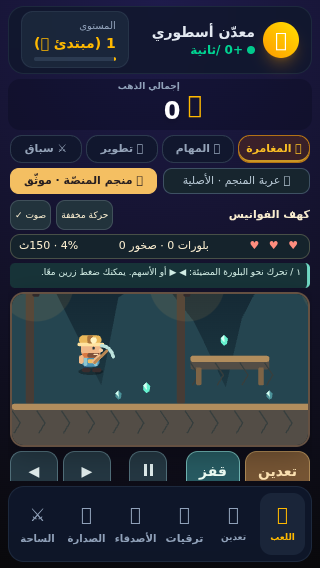
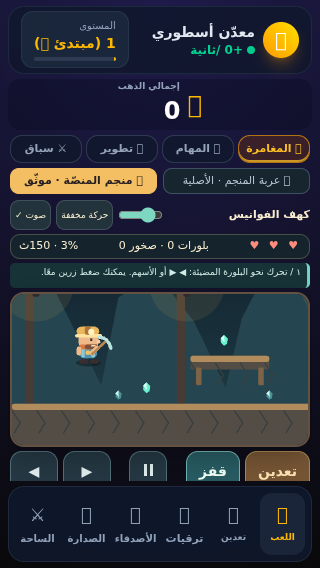
fix: isolate adventure scenes and verify full mobile touch gameplay

Changed region(s): [[0.2188, 0.5687, 0.375, 0.6585], [0.375, 0.3592, 0.5, 0.3891], [0.1875, 0.419, 0.2188, 0.4489]]

diff --git a/public/platform-game.js b/public/platform-game.js
@@ -11,7 +11,8 @@
   let sim = R.create(), inputs = [], ticket = null, owner = null;
   let running = false, paused = false, starting = false, restoring = true, submitting = false, pending = null;
   let raf = 0, last = 0, accumulator = 0;
-  let audio = null, muted = false, particles = [];
+  let audio = null, muted = false, volume = .75, particles = [];
+  let feedbackUntil = 0, observedCheckpoint = sim.checkpoint, observedMined = sim.mined;
   const keys = new Set(), pointers = new Map();
   // Preserve a quick jump/mine tap until one simulation step consumes it. Sources
   // are separate so cancelling a finger cannot erase a keyboard or another finger.
@@ -28,7 +29,11 @@
   let reduced = Boolean(motionQuery?.matches), motionOverride = false;
   try { const preference = localStorage.getItem('platform-reduced'); if (preference !== null) { reduced = preference === 'true'; motionOverride = true; } } catch (_) {}
   let learnedJump = false;
-  try { muted = localStorage.getItem('platform-muted') === 'true'; } catch (_) {}
+  try {
+    muted = localStorage.getItem('platform-muted') === 'true';
+    const savedVolume = localStorage.getItem('platform-volume');
+    if (savedVolume !== null && Number.isFinite(Number(savedVolume))) volume = Math.max(0, Math.min(1, Number(savedVolume)));
+  } catch (_) {}
   const keyMap = { ArrowLeft: 1, KeyA: 1, ArrowRight: 2, KeyD: 2, Space: 4, ArrowUp: 4, KeyW: 4, KeyE: 8, KeyX: 8 };
   const storageKey = () => `platform-run:v1:${owner}`;
   const say = text => { el('platform-status').textContent = text; };
@@ -39,18 +44,18 @@
     document.querySelectorAll('[data-platform-input]').forEach(b => { b.dataset.down = 'false'; });
   }
   function audioUnlock() {
-    if (muted) return;
+    if (muted || volume === 0) return;
     try { const AC = window.AudioContext || window.webkitAudioContext; if (!audio && AC) audio = new AC(); audio?.resume()?.catch(() => {}); } catch (_) {}
   }
   function beep(type) {
-    if (muted || !audio || audio.state !== 'running') return;
+    if (muted || volume === 0 || !audio || audio.state !== 'running') return;
     try {
       const frequencies = { jump: 420, collect: 840, mine: 150, hurt: 90, win: 1040, land: 70, warning: 240, defeat: 600 };
       const o = audio.createOscillator(), g = audio.createGain();
       o.type = type === 'mine' || type === 'hurt' ? 'triangle' : 'sine';
       o.frequency.setValueAtTime(frequencies[type] || 300, audio.currentTime);
       o.frequency.exponentialRampToValueAtTime((frequencies[type] || 300) * 1.4, audio.currentTime + .1);
-      g.gain.setValueAtTime(.045, audio.currentTime); g.gain.exponentialRampToValueAtTime(.001, audio.currentTime + .13);
+      g.gain.setValueAtTime(.045 * volume, audio.currentTime); g.gain.exponentialRampToValueAtTime(.001, audio.currentTime + .13);
       o.connect(g); g.connect(audio.destination); o.start(); o.stop(audio.currentTime + .14);
     } catch (_) {}
   }
@@ -103,14 +108,29 @@
     if (previous && previous.mask === mask) previous.frames++;
     else inputs.push({ mask, frames: 1 });
   }
+  function feedback(text) {
+    setText('platform-feedback', text);
+    el('platform-feedback').hidden = false;
+    feedbackUntil = sim.tick + 150; // Simulation time: pause freezes the message too.
+  }
+  function resetFeedback() {
+    feedbackUntil = 0; observedCheckpoint = sim.checkpoint; observedMined = sim.mined;
+    el('platform-feedback').hidden = true;
+  }
   function consumeEvents() {
+    if (sim.mined > observedMined) feedback('تكسّر العِرق! جمعت بلورتين من المعدن.');
+    if (sim.checkpoint !== observedCheckpoint) feedback('راية مفعّلة — ستعود إلى هنا إن أصابك خطر.');
+    observedMined = sim.mined; observedCheckpoint = sim.checkpoint;
     for (const event of sim.events) {
       if (event.type === 'jump') learnedJump = true;
+      if (event.type === 'hurt') feedback(sim.player.hearts > 0 ? (sim.checkpoint === 64 ? 'احذر الخطر! عدت إلى نقطة البداية.' : 'احذر الخطر! عدت إلى آخر راية، ومواردك باقية.') : 'نفدت القلوب — يمكنك المحاولة من جديد.');
+      if (event.type === 'defeat') feedback('هزمت حارسًا — الطريق أكثر أمانًا.');
       beep(event.type);
       if (!reduced && ['mine', 'collect', 'hurt', 'win'].includes(event.type)) {
         for (let i = 0; i < 8; i++) particles.push({ x: event.x, y: event.y, vx: (i - 4) * .65, vy: -1 - (i % 3), life: 30, color: event.type === 'hurt' ? '#ff9b7e' : '#8ce6cc' });
       }
     }
+    if (feedbackUntil && sim.tick >= feedbackUntil) { el('platform-feedback').hidden = true; feedbackUntil = 0; }
     particles = particles.slice(-96);
     for (const p of particles) { p.x += p.vx; p.y += p.vy; p.vy += .12; p.life--; }
     particles = particles.filter(p => p.life > 0);
@@ -188,7 +208,7 @@
         say('جولة محفوظة الهوية. عدّن صخرة واجمع 3 بلورات، ثم اعبر بوابة الخروج.');
       } else { R = currentRules; ticket = null; say('تدريب بلا اتصال — لا مكافأة. يمكنك اللعب ثم إعادة المحاولة متصلًا.'); }
       sim = R.create(); inputs = []; particles = []; learnedJump = false; running = true; paused = false; save();
-      hud();
+      resetFeedback(); hud();
       if (visible()) resume(); else pause();
     } catch (e) { say(`تعذّر بدء الجولة: ${e.message}. جرّب مجددًا عند الاتصال.`); }
     finally { starting = false; el('platform-start').disabled = Boolean(pending); }
@@ -204,7 +224,7 @@
     const replay = stored.inputs?.length ? R.replay(stored.inputs) : { ok: true, state: R.create() };
     if (!replay.ok) { say('ملف جولة غير صالح؛ يمكنك البدء مجددًا.'); return; }
     ticket = stored.ticket; inputs = stored.inputs || []; sim = replay.state;
-    hud(); draw();
+    resetFeedback(); hud(); draw();
     if (sim.status !== 'playing') {
       pending = { id: ticket.id, inputs }; el('platform-start').disabled = true;
       overlay(sim.status === 'won' ? 'استرجاع نتيجة جولتك' : 'جولة سابقة انتهت', 'جارٍ استرجاع تأكيد الخادم. إعادة الطلب لا تضاعف الجائزة.');
@@ -266,12 +286,34 @@
     say('أُلغي الحفظ المحلي المعلق فقط. يمكنك بدء جولة جديدة؛ أرصدة الخادم لم تُحذف.');
   });
   el('platform-mode').addEventListener('click', showPlatform); el('legacy-mode').addEventListener('click', showLegacy);
-  el('platform-mute').setAttribute('aria-pressed', String(muted)); el('platform-mute').textContent = muted ? 'صوت ×' : 'صوت ✓';
+  function audioUI() {
+    const silent = muted || volume === 0;
+    el('platform-mute').setAttribute('aria-pressed', String(silent));
+    el('platform-mute').textContent = silent ? 'صوت ×' : 'صوت ✓';
+    el('platform-volume').value = String(Math.round(volume * 100));
+    el('platform-volume').setAttribute('aria-valuetext', `${Math.round(volume * 100)} بالمئة`);
+  }
+  function applyAudioPreference() {
+    audioUI();
+    try {
+      localStorage.setItem('platform-muted', String(muted));
+      localStorage.setItem('platform-volume', String(volume));
+    } catch (_) {}
+    if (muted || volume === 0) audio?.suspend?.()?.catch(() => {}); else audioUnlock();
+  }
   el('platform-mute').addEventListener('click', () => {
-    muted = !muted; el('platform-mute').setAttribute('aria-pressed', String(muted)); el('platform-mute').textContent = muted ? 'صوت ×' : 'صوت ✓';
-    try { localStorage.setItem('platform-muted', String(muted)); } catch (_) {}
-    if (muted) audio?.suspend?.()?.catch(() => {}); else audioUnlock();
+    muted = !(muted || volume === 0);
+    if (!muted && volume === 0) volume = .5;
+    applyAudioPreference();
   });
+  el('platform-volume').addEventListener('input', () => {
+    const value = Number(el('platform-volume').value);
+    if (!Number.isFinite(value)) return;
+    volume = Math.max(0, Math.min(1, value / 100));
+    if (volume > 0) muted = false;
+    applyAudioPreference();
+  });
+  audioUI();
   function motionUI() {
     el('platform-motion').setAttribute('aria-pressed', String(reduced));
     el('platform-motion').textContent = reduced ? 'حركة مخففة' : 'حركة كاملة';
@@ -284,7 +326,7 @@
   motionQuery?.addEventListener?.('change', e => { if (!motionOverride) { reduced = e.matches; particles = []; motionUI(); draw(); } });
   motionUI();
   // Read-only diagnostics support reproducible browser tests, not reward authority.
-  window.PlatformGame = { pause, showLegacy, showPlatform, inspect: () => ({ tick: sim.tick, status: sim.status, pose: sim.player.pose, facing: sim.player.facing, x: sim.player.x, y: sim.player.y, gems: sim.collected, mined: sim.mined, hearts: sim.player.hearts, running, paused, scheduled: Boolean(raf), ticket: ticket?.id, pending: Boolean(pending), reduced, version: R.VERSION, defeated: sim.defeated || 0, boss: Boolean(sim.bossDefeated) }) };
+  window.PlatformGame = { pause, showLegacy, showPlatform, inspect: () => ({ tick: sim.tick, status: sim.status, pose: sim.player.pose, facing: sim.player.facing, x: sim.player.x, y: sim.player.y, gems: sim.collected, mined: sim.mined, hearts: sim.player.hearts, running, paused, scheduled: Boolean(raf), ticket: ticket?.id, pending: Boolean(pending), reduced, muted: muted || volume === 0, volume, checkpoint: sim.checkpoint, version: R.VERSION, defeated: sim.defeated || 0, boss: Boolean(sim.bossDefeated) }) };
   el('platform-start').disabled = true;
   draw(); restore().catch(() => say('تعذّر استرجاع الجولة؛ يمكنك بدء رحلة جديدة.')).finally(() => { restoring = false; el('platform-start').disabled = Boolean(pending); });
 })();

diff --git a/test/platform-ui.test.js b/test/platform-ui.test.js
@@ -143,7 +143,7 @@ function bootPage({ failServer = false, storedRun = null } = {}) {
 
   const fire = (el, type, event = {}) => { for (const fn of el?._listeners?.[type] || []) fn({ type, preventDefault: noop, ...event }); };
   const fireWindow = (type, event = {}) => { for (const [t, fn] of windowListeners) if (t === type) fn({ type, preventDefault: noop, target: { tagName: 'BODY' }, ...event }); };
-  const key = (type, code) => fireWindow(type, { code, key: code });
+  const key = (type, code) => fireWindow(type, { code, key: code === 'Space' ? ' ' : code.startsWith('Key') ? code.slice(-1).toLowerCase() : code });
   const settle = async () => {
     for (let i = 0; i < 12; i++) {
       for (const fn of timers.splice(0)) { try { fn(); } catch (e) { log.errors.push(`timer: ${e.message}`); } }
@@ -160,7 +160,7 @@ test('platform UI: the page wires the scene — assets, mode switch and every el
     assert.ok(html.includes(asset), `${asset} must be referenced from index.html`);
   }
   for (const id of ['platform-scene', 'legacy-adventure', 'platform-mode', 'legacy-mode', 'platform-canvas', 'platform-overlay', 'platform-title', 'platform-message',
-    'platform-guide', 'platform-motion', 'platform-start', 'platform-resume', 'platform-pause', 'platform-retry', 'platform-discard', 'platform-mute', 'platform-hearts', 'platform-resources', 'platform-progress', 'platform-status']) {
+    'platform-feedback', 'platform-volume', 'platform-guide', 'platform-motion', 'platform-start', 'platform-resume', 'platform-pause', 'platform-retry', 'platform-discard', 'platform-mute', 'platform-hearts', 'platform-resources', 'platform-progress', 'platform-status']) {
     assert.ok(ids.has(id), `#${id} must exist`);
   }
   for (const mask of [1, 2, 4, 8]) assert.match(html, new RegExp(`data-platform-input="${mask}"`));
@@ -369,4 +369,79 @@ test('platform UI: a short mining tap swings once rather than continuing to mine
   tap(52); page.flushFrames(15); tap(53); page.flushFrames(15);
   assert.equal(page.PlatformGame().inspect().mined, 1, 'three deliberate taps break the rock');
   assert.equal(mine.dataset.down, 'false');
+});
+
+test('platform UI: volume is bounded, persists, mutes at zero, and can be restored by the sound button', async () => {
+  const page = bootPage(); await page.settle();
+  const slider = page.byId('platform-volume');
+  slider.value = '25'; page.fire(slider, 'input');
+  assert.equal(page.PlatformGame().inspect().volume, .25);
+  assert.equal(page.localStore.get('platform-volume'), '0.25');
+  slider.value = '0'; page.fire(slider, 'input'); assert.equal(page.PlatformGame().inspect().muted, true);
+  page.fire(page.byId('platform-mute'), 'click');
+  assert.equal(page.PlatformGame().inspect().muted, false); assert.equal(page.PlatformGame().inspect().volume, .5);
+  slider.value = '500'; page.fire(slider, 'input'); assert.equal(page.PlatformGame().inspect().volume, 1);
+  slider.value = '-20'; page.fire(slider, 'input'); assert.equal(page.PlatformGame().inspect().volume, 0);
+  slider.value = 'not-a-number'; page.fire(slider, 'input'); assert.equal(page.PlatformGame().inspect().volume, 0);
+});
+test('platform UI: slider keyboard commands do not move the miner', async () => {
+  const page = bootPage(); await page.settle();
+  page.fire(page.byId('platform-start'), 'click'); await page.settle();
+  let prevented = false;
+  page.fireWindow('keydown', {code: 'ArrowRight', key:'ArrowRight', target: {tagName: 'INPUT'}, preventDefault: () => { prevented = true; }});
+  assert.equal(prevented, false, 'all scene listeners must leave native slider commands alone');
+  page.flushFrames(15); assert.equal(page.PlatformGame().inspect().x, 64);
+});
+test('platform UI: activating a checkpoint gives temporary feedback, frozen during pause', async () => {
+  const state = R.create(), inputs = [];
+  outer: for (const action of solution().inputs) for (let i = 0; i < action.frames; i++) {
+    if (inputs.at(-1)?.mask === action.mask) inputs.at(-1).frames++;
+    else inputs.push({mask: action.mask, frames: 1});
+    R.step(state, action.mask);
+    if (state.player.x >= 903) break outer;
+  }
+  assert.equal(state.checkpoint, 64);
+  const page = bootPage({storedRun: {version: R.VERSION, ticket: {id:'ticket-ui-1',version:R.VERSION},inputs}});
+  await page.settle(); page.fire(page.byId('platform-resume'), 'click');
+  page.key('keydown','ArrowRight'); page.flushFrames(8); page.key('keyup','ArrowRight');
+  assert.equal(page.PlatformGame().inspect().checkpoint, 920);
+  assert.equal(page.byId('platform-feedback').hidden, false);
+  assert.match(page.byId('platform-feedback').textContent, /راية مفعّلة/);
+  page.fireWindow('blur'); page.flushFrames(200); assert.equal(page.byId('platform-feedback').hidden, false);
+  page.fire(page.byId('platform-resume'),'click'); page.flushFrames(160);
+  assert.equal(page.byId('platform-feedback').hidden, true);
+});
+test('platform UI: a legal fall reports the respawn without removing the resources already collected', async () => {
+  const page = bootPage(); await page.settle();
+  page.fire(page.byId('platform-start'), 'click'); await page.settle();
+  page.key('keydown','ArrowRight'); page.key('keydown','KeyE');
+  for (let i=0; i<45 && page.PlatformGame().inspect().hearts===3; i++) page.flushFrames(10);
+  page.key('keyup','ArrowRight'); page.key('keyup','KeyE');
+  const state = page.PlatformGame().inspect();
+  assert.equal(state.hearts, 2); assert.ok(state.gems >= 3); assert.equal(state.mined, 1);
+  assert.match(page.byId('platform-feedback').textContent, /عدت إلى نقطة البداية/);
+  assert.equal(page.log.platformFinishBodies.length, 0, 'feedback cannot grant or finish a reward');
+});
+
+test('scene isolation: real Space jumps only in the platform scene, and still starts the visible original cart', async () => {
+  const page = bootPage(); await page.settle();
+  page.fire(page.byId('platform-start'), 'click'); await page.settle();
+  page.key('keydown','Space'); page.flushFrames(3); page.key('keyup','Space');
+  assert.ok(page.PlatformGame().inspect().y < 262);
+  assert.equal(vm.runInContext('adv.running',page.ctx), false, 'no hidden second simulation');
+  page.fire(page.byId('legacy-mode'),'click');
+  assert.equal(page.PlatformGame().inspect().scheduled, false);
+  page.key('keydown','Space'); page.key('keyup','Space');
+  assert.equal(vm.runInContext('adv.running',page.ctx), true, 'original keyboard control remains supported');
+});
+test('scene isolation: native form input cannot start the cart, and a seeded race reveals it and pauses platforms', async () => {
+  const page = bootPage(); await page.settle();
+  page.fire(page.byId('legacy-mode'),'click');
+  page.fireWindow('keydown',{code:'Space',key:' ',target:{tagName:'INPUT'}});
+  assert.equal(vm.runInContext('adv.running',page.ctx), false);
+  page.fire(page.byId('platform-mode'),'click'); page.fire(page.byId('platform-start'),'click'); await page.settle();
+  vm.runInContext("startAdventure('race', 1234, 45)",page.ctx);
+  assert.equal(page.PlatformGame().inspect().paused, true); assert.equal(page.PlatformGame().inspect().scheduled, false);
+  assert.equal(page.byId('legacy-adventure').hidden, false); assert.equal(page.byId('platform-scene').hidden, true);
+  assert.equal(vm.runInContext('adv.mode',page.ctx), 'race'); assert.equal(vm.runInContext('adv.timeLeft',page.ctx), 45);
 });

diff --git a/public/index.html b/public/index.html
@@ -311,7 +311,7 @@
     .buy-btn { transition: transform .08s ease, opacity .2s ease, background .2s ease; }
   </style>
   <!-- أنماط مشهد منجم المنصّة (اللعبة الجانبية) — مكتفية ذاتياً بلا CDN أو خطوط خارجية -->
-  <link rel="stylesheet" href="/platform.css?v=2">
+  <link rel="stylesheet" href="/platform.css?v=3">
 </head>
 <body class="flex flex-col p-2 sm:p-3 select-none mx-auto gap-2">
 
@@ -415,7 +415,7 @@
           <div class="mine-kicker">المستوى ١ / كهف الفوانيس · استكشف، عدّن، ثم اعبر</div>
           <h2>كهف الفوانيس</h2>
         </div>
-        <div class="mine-settings"><button id="platform-motion" type="button" aria-pressed="false" aria-label="تقليل الحركة">حركة كاملة</button><button id="platform-mute" type="button" aria-pressed="false">صوت ✓</button></div>
+        <div class="mine-settings"><input id="platform-volume" type="range" dir="ltr" min="0" max="100" step="5" value="75" aria-label="مستوى صوت اللعبة" title="مستوى صوت اللعبة"><button id="platform-motion" type="button" aria-pressed="false" aria-label="تقليل الحركة">حركة كاملة</button><button id="platform-mute" type="button" aria-pressed="false">صوت ✓</button></div>
       </div>
       <div class="mine-hud" aria-label="حالة الجولة">
         <span id="platform-hearts">♥ ♥ ♥</span>
@@ -424,6 +424,7 @@
       </div>
       <div id="platform-guide" class="mine-guide" role="status" aria-live="polite">١ / تحرك باتجاه البلورة المضيئة باستخدام ◀ ▶ أو الأسهم.</div>
       <div class="mine-stage">
+        <div id="platform-feedback" class="mine-feedback" role="status" aria-live="polite" hidden></div>
         <canvas id="platform-canvas" tabindex="0" aria-label="مشهد منجم المنصّة — حرّك بالأسهم واقفز بالمسافة وعدّن بحرف E"></canvas>
         <div id="platform-overlay" class="mine-overlay">
           <h3 id="platform-title">رحلة إلى كهف الفوانيس</h3>
@@ -2172,6 +2173,10 @@
     }
 
     function startAdventure(mode = 'solo', seed = null, duration = null) {
+      // A server-started race must reveal the cart, and suspend the platform RAF.
+      window.PlatformGame?.showLegacy();
+      if (mode === 'race') switchPlayPanel('adventure');
+      for (const key of Object.keys(advKeys)) delete advKeys[key];
       resizeAdventureCanvas();
       adv.mode = mode;
       adv.rng = mode === 'race' && seed !== null ? mulberry32(seed) : null;
@@ -2214,6 +2219,8 @@
     function setAdventurePaused(paused) {
       if (!adv.running) return;
       adv.paused = paused;
+      for (const key of Object.keys(advKeys)) delete advKeys[key];
+      if (paused) cancelAnimationFrame(adv.raf);
       const overlay = document.getElementById('game-overlay');
       document.getElementById('game-overlay-title').innerText = paused ? '⏸ توقف مؤقت' : 'مغامرة المنجم';
       document.getElementById('game-overlay-text').innerHTML = paused ? 'خذ نفساً… المغامرة بانتظارك.' : '';
@@ -2597,8 +2604,13 @@
     advCanvas.addEventListener('pointerdown', (e) => { advCanvas.setPointerCapture?.(e.pointerId); moveAdventureTo(e.clientX); });
     advCanvas.addEventListener('pointermove', (e) => { if (e.buttons || e.pointerType === 'touch') moveAdventureTo(e.clientX); });
     window.addEventListener('keydown', (e) => {
-      if (!document.getElementById('tab-play').classList.contains('active')) return;
-      if (['ArrowLeft', 'ArrowRight', ' '].includes(e.key)) e.preventDefault();
+      if (!document.getElementById('tab-play').classList.contains('active')
+          || !document.getElementById('play-panel-adventure').classList.contains('active')
+          || document.getElementById('legacy-adventure').hidden
+          || /INPUT|TEXTAREA|SELECT/.test(e.target?.tagName || '') || e.target?.isContentEditable) return;
+      if (!['ArrowLeft', 'ArrowRight', ' '].includes(e.key)) return;
+      e.preventDefault();
+      if (e.key === ' ' && e.repeat) return;
       advKeys[e.key] = true;
       if (e.key === ' ' && adv.running) useAdventureSkill();
       else if (e.key === ' ' && !adv.running) startAdventure();
@@ -2908,6 +2920,6 @@
   <!-- جسر منجم المنصّة: يربط مشهد اللعبة بواجهات المزامنة والمصادقة أعلاه -->
   <script src="/platform-bridge.js?v=1"></script>
   <!-- متحكم مشهد منجم المنصّة: خطوة ثابتة 60Hz وتسجيل حركات يتحقق منها الخادم -->
-  <script src="/platform-game.js?v=2"></script>
+  <script src="/platform-game.js?v=3"></script>
 </body>
 </html>

diff --git a/public/platform.css b/public/platform.css
@@ -28,3 +28,11 @@
 @media(max-height:480px) and (min-width:600px){.mine-heading h2{font-size:10px}.mine-heading button{min-height:24px}.mine-guide{min-height:18px}}
 
 .mine-controls .mine-actions button[data-platform-input="4"]{background:#275b62;border-color:#71b6b4;color:#effff6}
+
+/* Small, non-blocking game feedback; no timer/animation loop of its own. */
+.mine-feedback{position:absolute;z-index:1;top:8px;inset-inline:8px;pointer-events:none;text-align:center;padding:6px 9px;border:1px solid #77bda5;border-radius:8px;background:#12352ff2;color:#e1ffdf;font-size:11px;line-height:1.5}
+.mine-overlay{z-index:2}
+.mine-heading>div:first-child{min-width:0}
+#platform-volume{width:54px;min-width:54px;height:36px;align-self:center;margin:0;accent-color:#7ed8c1;cursor:pointer}
+#platform-volume:focus-visible{outline:2px solid #a3e6d4;outline-offset:2px}
+@media(max-height:650px){#platform-volume{width:45px;min-width:45px;height:30px}.mine-feedback{font-size:10px;top:5px;padding:4px}}

diff --git a/docs/2D-SIDE-SCROLLER-OVERHAUL.md b/docs/2D-SIDE-SCROLLER-OVERHAUL.md
@@ -207,3 +207,50 @@ npm run test:browser
 المعاينة: `npm ci` ثم `npm start` على Node 22، وافتح `http://localhost:3000` على جهاز التشغيل. يعمل المستوى افتراضيًا دون البحث في قوائم فرعية. المعاينة الحية في Arena خادم تطوير على المنفذ 3000 مربوط بـ`0.0.0.0`؛ الضيف للتجربة المحلية فقط. للدخول الحقيقي داخل Telegram يلزم ضبط الإعدادات الموثقة في `.env.example` وHTTPS خارج هذه المعاينة، ولم يُنفّذ نشر هنا.
 
 فرع المراجعة على GitHub: [arena/c6a30444-telegram-mining-game](https://github.com/Mohammedradan/telegram-mining-game/tree/arena/c6a30444-telegram-mining-game). لقطات الهاتف والشاشة القصيرة والأفقية والزعيم والنتيجة مرفقة في `docs/media/`. لا يُعتبر اختبار Chromium أو إبطاء CPU بديلًا عن اعتماد Telegram على أجهزة فعلية؛ القيود السابقة ما زالت قائمة.
+
+
+### إعادة الفحص وإكمال قبول اللمس وعزل المشاهد — 2026-10-17
+
+**حالة Git التي رُصدت فعلًا:** كانت الشجرة المستعادة عند HEAD محلي `d5198d1` ومعها الملفات المعدلة، بينما أكّد `git ls-remote` وجود التنفيذ في `2fe1b1ea006bcdda4c81b706ffbc47705fc52165` على فرع Arena. قورنت كل الملفات المتعقبة بالـblob hashes البعيدة وكانت مطابقة تمامًا؛ جرى تحديث HEAD/index إلى ذلك الـcommit مع إبقاء ملفات العمل دون حذف أو استبدال. فرع `feature/2d-side-scrolling-overhaul` البعيد كان ما يزال عند `d5198d1`، ولذلك لا يكفي فتحه لرؤية التنفيذ. يجري التسليم من فرع الجلسة الثابت إلى مسودة مراجعة تستهدف فرع feature المطلوب، **دون دمج**.
+
+أول تشغيل للاختبارات في البيئة المستعادة فشل فعلًا (**80 نجاحًا / 70 فشلًا**) بسبب غياب الاعتمادات، ومنها Express وSQLite. بعد `npm_config_nodedir=/usr/local npm ci` نجح خط الأساس **164/164** ونجح البناء قبل التعديل. لم يُستبدل نظام المصادقة أو الاقتصاد أو قاعدة البيانات.
+
+#### إصلاح لعب فعلي اكتشفه المتصفح
+
+مستمع مفاتيح العربة القديمة كان يتعامل مع الأسهم وSpace متى كان تبويب اللعب نشطًا، حتى حين تكون العربة **مخفية خلف المنصات**. كان يمنع الاستخدام الأصلي لأسهم شريط الصوت، ويمكن أن يبدأ العربة ويشغّل محاكاة ثانية عند القفز بالمسافة. لم تكشفه اختبارات VM السابقة لأن قيمة `KeyboardEvent.key` فيها كانت `Space` بدل المسافة الحقيقية `' '`.
+
+- قُصر مستمع العربة على مشهدها الظاهر ولوحتها النشطة، مع تجاهل حقول الإدخال وcontenteditable.
+- صُححت دلالة المفاتيح في محاكي الاختبار، وأضيف اختبار يستخدم Space الحقيقي ويثبت أن العربة تبقى غير مشغلة أثناء القفز في المنصات، وأنها لا تزال تبدأ بالمسافة حين يظهر مشهدها.
+- تمسح العربة مفاتيحها وتلغي RAF عند الإيقاف. بدء سباق خادمي يكشف مشهد العربة ولوحة المغامرة ويوقف المنصات، مع الحفاظ على seed والمدة الخادميين.
+- أضيف تأكيد في اختبار Chromium أن جولة المنصات لا تبدأ العربة المخفية.
+
+#### صقل تجربة اللعب، لا نظام اقتصاد جديد
+
+- شريط مستوى صوت 0–100% محفوظ، وكتم مستقل واسترجاع الصوت من مستوى الصفر. تغيير الشريط بلوحة المفاتيح لا يحرك الشخصية. مستوى الصوت يؤثر فعلًا في gain لمؤثرات Web Audio.
+- إشعارات قصيرة داخل المشهد عند تكسير عِرق، تفعيل راية، التعرض للضرر والعودة، وهزيمة حارس. لا تحجب اللمس، ولا تُنشئ مؤقتات/حلقات إضافية، وتنتهي وفق وقت المحاكاة وتتوقف معها أثناء الاستراحة.
+- الإشعارات لا تمنح مكافآت ولا تدّعي حفظ رصيد خادمي؛ تأكيد المكافأة ما زال في شاشة النتيجة ومسار finish القائمين.
+
+#### نتائج التحقق لهذه المراجعة
+
+| الأمر | النتيجة الفعلية |
+|---|---|
+| `npm test` | **170/170**، صفر فشل/skip، نحو 37.7 ثانية، SQLite |
+| `npm run build` | ناجح: 12 ملف JS والسكربتات المضمّنة ومراجع الأصول |
+| `npm run test:browser` | ناجح: المقاسات الأربعة، عزل المشاهد، فوز المستوى والزعيم، واسترجاع نتيجة بعد فقد الرد عقب commit؛ `errors: []` |
+| `npm run test:touch` | **ناجح: مستوى كامل باللمس فقط**، ثلاث نقاط لمس متزامنة للحركة/التعدين/القفز، جهاز محاكى 390×844 وDPR=2 وإبطاء CPU=2×، إعادة تحميل عند الراية ثم الاستئناف، 3 صخور و10 بلورات، 98 ذهبًا محفوظًا، وتكرار finish وإعادة فتح الصفحة بلا مضاعفة |
+| `git diff --check` | ناجح |
+
+أضيفت ستة اختبارات Node لمستوى الصوت، ومفاتيح الحقول، ورسالة الراية ووقت إخفائها، والعودة بعد السقوط مع بقاء الموارد، وعزل المسافة، والانتقال لسباق العربة. لم تُحذف اختبارات قديمة أو تُخفف شروطها. الاختبار الجديد `scripts/test-platform-touch.cjs` يستخدم أحداث لمس CDP حقيقية؛ لا يحقن موقعًا أو سرعة أو نتيجة في المحاكاة، ولا يستخدم لوحة المفاتيح للحركة أو القفز أو التعدين. الاختبارات الأولى لهذا السكربت فشلت حتى صُحّح عزل المفاتيح ودلالة CDP لإنهاء إصبع واحد؛ لم تُسجّل نجاحًا قبل إعادة التشغيل الناجحة.
+
+قياسات البيئة الأخيرة (ليست FPS أو اعتماد هاتف): جولة إبطاء CPU=4× في اختبار المتصفح **40.032 ثانية حقيقية / 20.533 ثانية محاكاة**؛ اختبار اللمس الكامل **50.457 ثانية حقيقية / 21.75 ثانية محاكاة** ويتضمن إعادة التحميل والتقاط الشاشة وطلبات الحفظ. لا تُقارن هذه الأرقام كمعيار أجهزة حقيقية، خصوصًا أن الرسم software داخل sandbox.
+
+التشغيل الإضافي، مع خادم تطوير محلي مفتوح وChromium مثبت:
+
+```bash
+npm run test:touch
+# أو CHROMIUM_PATH=/path/to/chromium npm run test:touch
+```
+
+الملفات الإضافية/المعدلة في هذه المراجعة: `public/index.html`، `public/platform-game.js`، `public/platform.css`، `test/platform-ui.test.js`، `scripts/test-platform-browser.cjs`، `scripts/test-platform-touch.cjs`، `package.json`، README وهذه الوثيقة، ولقطات `docs/media/` ومنها `platform-touch-checkpoint.png` التي التقطت من الجولة اللمسية الحقيقية.
+
+**الحدود باقية:** الاختبارات محلية، وليست اختبار Telegram/iOS أو هاتف متوسط فعلي. PostgreSQL والإنتاج لم يُختبرا هنا. هذا مستوى منصات واحد، ولا أدوات منصات مطورة أو مناطق إضافية أو منافسة منصات جديدة. لم تُفعّل Stars أو أية عملية شراء، ولم يحدث نشر إنتاجي أو دمج إلى main أو feature.

diff --git a/README.md b/README.md
@@ -8,9 +8,9 @@
 
 - الهاتف: الحركة بالإبهام الأيسر، والقفز والتعدين/الهجوم بالإبهام الأيمن، مع لمس متعدد والتقاط الضغطات السريعة.
 - الكمبيوتر: الأسهم أو A/D، القفز Space/W/↑، والتعدين/الهجوم E/X.
-- من أعلى المشهد: كتم الصوت وتقليل الحركة؛ المغادرة توقف الجولة، والمتابعة تستأنفها.
+- من أعلى المشهد: مستوى الصوت والكتم وتقليل الحركة؛ المغادرة توقف الجولة، والمتابعة تستأنفها.
 - المكافآت افتراضية ومؤكدة بإعادة المحاكاة الخادمية؛ التدريب دون هوية خادمية لا يمنح رصيدًا.
-- تحقق محلي: `npm test`، `npm run build`، و`npm run test:browser` بعد تثبيت Chromium عبر `npx playwright-core install chromium` وتشغيل خادم تطوير محلي.
+- تحقق محلي: `npm test`، `npm run build`، و`npm run test:browser` بعد تثبيت Chromium عبر `npx playwright-core install chromium` وتشغيل خادم تطوير محلي. اختبار القبول اللمسي الكامل: `npm run test:touch`.
 
 **[التنفيذ والاختبارات والقيود التفصيلية](docs/2D-SIDE-SCROLLER-OVERHAUL.md#سجل-التنفيذ-الفعلي--2026-10-17)**. هذه نسخة مراجعة محلية وليست إعلان نشر أو تحقق على هواتف Telegram الفعلية.
 
